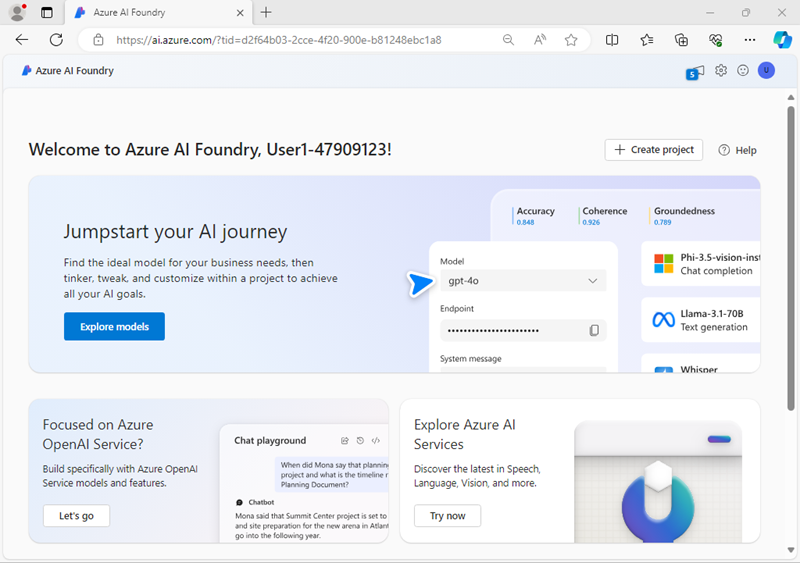
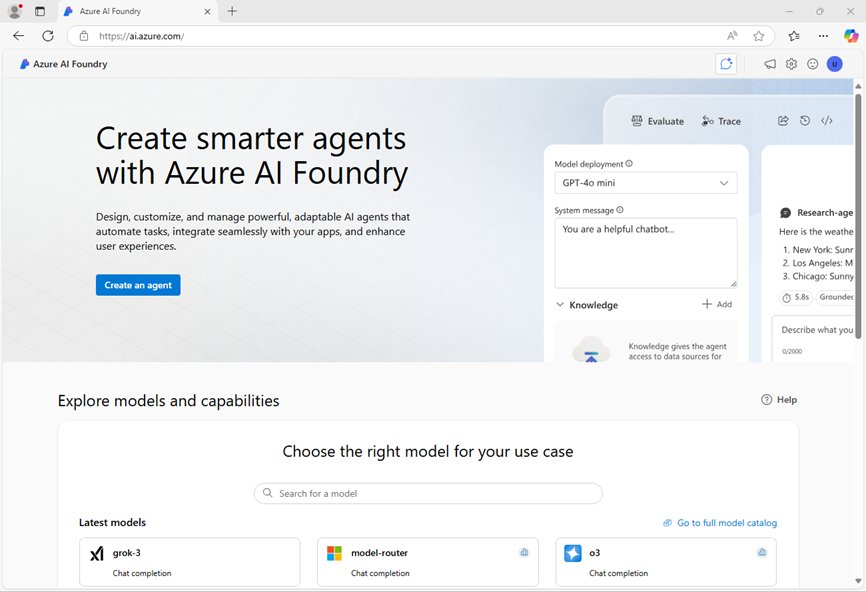
lab 1 and 2 updates (#24)
* Update 02-build-ai-agent.md

Updated nav steps

* Add files via upload

* Update agent.py

* Update .env

* Update .env

* Update agent.py

* update lab1 to new UI

* Update 02-build-ai-agent.md

* minor change

* update to agentclient

* project ui update

* Update 01-agent-fundamentals.md

---------

diff --git a/Labfiles/02-build-ai-agent/Python/agent.py b/Labfiles/02-build-ai-agent/Python/agent.py
@@ -14,8 +14,8 @@ def main():
 
     # Load environment variables from .env file
     load_dotenv()
-    PROJECT_CONNECTION_STRING= os.getenv("AZURE_AI_AGENT_PROJECT_CONNECTION_STRING")
-    MODEL_DEPLOYMENT = os.getenv("AZURE_AI_AGENT_MODEL_DEPLOYMENT_NAME")
+    project_endpoint= os.getenv("PROJECT_ENDPOINT")
+    model_deployment = os.getenv("MODEL_DEPLOYMENT_NAME")
 
     # Display the data to be analyzed
     script_dir = Path(__file__).parent  # Get the directory of the script
@@ -25,7 +25,7 @@ def main():
         data = file.read() + "\n"
         print(data)
 
-    # Connect to the Azure AI Foundry project
+    # Connect to the Agent client
 
 
         # Upload the data file and create a CodeInterpreterTool

diff --git a/Instructions/02-build-ai-agent.md b/Instructions/02-build-ai-agent.md
@@ -20,47 +20,30 @@ Let's start by creating an Azure AI Foundry project.
 
     ![Screenshot of Azure AI Foundry portal.](./Media/ai-foundry-home.png)
 
-1. In the home page, select **+ Create project**.
-1. In the **Create a project** wizard, enter a valid name for your project and if an existing hub is suggested, choose the option to create a new one. Then review the Azure resources that will be automatically created to support your hub and project.
-1. Select **Customize** and specify the following settings for your hub:
-    - **Hub name**: *A valid name for your hub*
+1. In the home page, select **Create an agent**.
+1. When prompted to create a project, enter a valid name for your project and expand **Advanced options**.
+1. Confirm the following settings for your project:
+    - **Azure AI Foundry resource**: *A valid name for your Azure AI Foundry resource*
     - **Subscription**: *Your Azure subscription*
     - **Resource group**: *Create or select a resource group*
-    - **Location**: Select a region from the following:\*
-        - eastus
-        - eastus2
-        - swedencentral
-        - westus
-        - westus3
-    - **Connect Azure AI Services or Azure OpenAI**: *Create a new AI Services resource*
-    - **Connect Azure AI Search**: Skip connecting
+    - **Region**: *Select any **AI Services supported location***\*
 
-    > \* At the time of writing, these regions support the gpt-4o model for use in agents. Model availability is constrained by regional quotas. In the event of a quota limit being reached later in the exercise, there's a possibility you may need to create another project in a different region.
+    > \* Some Azure AI resources are constrained by regional model quotas. In the event of a quota limit being exceeded later in the exercise, there's a possibility you may need to create another resource in a different region.
 
-1. Select **Next** and review your configuration. Then select **Create** and wait for the process to complete.
-1. When your project is created, close any tips that are displayed and review the project page in Azure AI Foundry portal, which should look similar to the following image:
+1. Select **Create** and wait for your project to be created.
+1. When your project is created, the Agents playground will be opened automatically so you can select or deploy a model:
 
-    ![Screenshot of a Azure AI project details in Azure AI Foundry portal.](./Media/ai-foundry-project.png)
+    ![Screenshot of a Azure AI Foundry project Agents playground.](./Media/ai-foundry-agents-playground.png)
 
-## Deploy a generative AI model
+    >**Note**: A GPT-4o base model is automatically deployed when creating your Agent and project.
 
-Now you're ready to deploy a generative AI language model to support your agent.
+1. In the navigation pane on the left, select **Overview** to see the main page for your project; which looks like this:
 
-1. In the pane on the left for your project, in the **My assets** section, select the **Models + endpoints** page.
-1. In the **Models + endpoints** page, in the **Model deployments** tab, in the **+ Deploy model** menu, select **Deploy base model**.
-1. Search for the **gpt-4o** model in the list, and then select and confirm it.
-1. Deploy the model with the following settings by selecting **Customize** in the deployment details:
-    - **Deployment name**: *A valid name for your model deployment*
-    - **Deployment type**: Global Standard
-    - **Automatic version update**: Enabled
-    - **Model version**: *Select the most recent available version*
-    - **Connected AI resource**: *Select your Azure OpenAI resource connection*
-    - **Tokens per Minute Rate Limit (thousands)**: 50K *(or the maximum available in your subscription if less than 50K)*
-    - **Content filter**: DefaultV2
+    > **Note**: If an *Insufficient permissions** error is displayed, use the **Fix me** button to resolve it.
 
-    > **Note**: Reducing the TPM helps avoid over-using the quota available in the subscription you are using. 50,000 TPM should be sufficient for the data used in this exercise. If your available quota is lower than this, you will be able to complete the exercise but you may need to wait and resubmit prompts if the rate limit is exceeded.
+    ![Screenshot of a Azure AI Foundry project overview page.](./Media/ai-foundry-project.png)
 
-1. Wait for the deployment to complete.
+1. Copy the **Azure AI Foundry project endpoint** values to a notepad, as you'll use them to connect to your project in a client application.
 
 ## Create an agent client app
 
@@ -107,7 +90,7 @@ Now you're ready to create a client app that uses an agent. Some code has been p
     ```
    python -m venv labenv
    ./labenv/bin/Activate.ps1
-   pip install python-dotenv azure-identity azure-ai-projects
+   pip install -r requirements.txt azure-ai-projects
     ```
 
 1. Enter the following command to edit the configuration file that has been provided:
@@ -118,8 +101,8 @@ Now you're ready to create a client app that uses an agent. Some code has been p
 
     The file is opened in a code editor.
 
-1. In the code file, replace the **your_project_connection_string** placeholder with the connection string for your project (copied from the project **Overview** page in the Azure AI Foundry portal), and the **your_model_deployment** placeholder with the name you assigned to your gpt-4o model deployment.
-1. After you've replaced the placeholders, use the **CTRL+S** command to save your changes and then use the **CTRL+Q** command to close the code editor while keeping the cloud shell command line open.
+1. In the code file, replace the **your_project_endpoint** placeholder with the endpoint for your project (copied from the project **Overview** page in the Azure AI Foundry portal).
+1. After you've replaced the placeholder, use the **CTRL+S** command to save your changes and then use the **CTRL+Q** command to close the code editor while keeping the cloud shell command line open.
 
 ### Write code for an agent app
 
@@ -137,32 +120,32 @@ Now you're ready to create a client app that uses an agent. Some code has been p
     ```python
    # Add references
    from azure.identity import DefaultAzureCredential
-   from azure.ai.projects import AIProjectClient
-   from azure.ai.projects.models import FilePurpose, CodeInterpreterTool
+   from azure.ai.agents import AgentsClient
+   from azure.ai.agents.models import FilePurpose, CodeInterpreterTool, ListSortOrder, MessageRole
     ```
 
-1. Find the comment **Connect to the Azure AI Foundry project** and add the following code to connect to the Azure AI project.
+1. Find the comment **Connect to the Agent client** and add the following code to connect to the Azure AI project.
 
     > **Tip**: Be careful to maintain the correct indentation level.
 
     ```python
-   # Connect to the Azure AI Foundry project
-   project_client = AIProjectClient.from_connection_string(
-        credential=DefaultAzureCredential
-            (exclude_environment_credential=True,
-             exclude_managed_identity_credential=True),
-        conn_str=PROJECT_CONNECTION_STRING
+   # Connect to the Agent client
+   agent_client = AgentsClient(
+       endpoint=project_endpoint,
+       credential=DefaultAzureCredential
+           (exclude_environment_credential=True,
+            exclude_managed_identity_credential=True)
    )
-   with project_client:
+   with agent_client:
     ```
 
-    The code connects to the Azure AI Foundry project using the current Azure credentials. The final *with project_client* statement starts a code block that defines the scope of the client, ensuring it's cleaned up when the code within the block is finished.
+    The code connects to the Azure AI Foundry project using the current Azure credentials. The final *with agent_client* statement starts a code block that defines the scope of the client, ensuring it's cleaned up when the code within the block is finished.
 
-1. Find the comment **Upload the data file and create a CodeInterpreterTool**, within the *with project_client* block, and add the following code to upload the data file to the project and create a CodeInterpreterTool that can access the data in it:
+1. Find the comment **Upload the data file and create a CodeInterpreterTool**, within the *with agent_client* block, and add the following code to upload the data file to the project and create a CodeInterpreterTool that can access the data in it:
 
     ```python
    # Upload the data file and create a CodeInterpreterTool
-   file = project_client.agents.upload_file_and_poll(
+   file = agent_client.files.upload_and_poll(
         file_path=file_path, purpose=FilePurpose.AGENTS
    )
    print(f"Uploaded {file.filename}")
@@ -174,8 +157,8 @@ Now you're ready to create a client app that uses an agent. Some code has been p
 
     ```python
    # Define an agent that uses the CodeInterpreterTool
-   agent = project_client.agents.create_agent(
-        model=MODEL_DEPLOYMENT,
+   agent = agent_client.create_agent(
+        model=model_deployment,
         name="data-agent",
         instructions="You are an AI agent that analyzes the data in the file that has been uploaded. If the user requests a chart, create it and save it as a .png file.",
         tools=code_interpreter.definitions,
@@ -188,7 +171,7 @@ Now you're ready to create a client app that uses an agent. Some code has been p
 
     ```python
    # Create a thread for the conversation
-   thread = project_client.agents.create_thread()
+   thread = agent_client.threads.create()
     ```
     
 1. Note that the next section of code sets up a loop for a user to enter a prompt, ending when the user enters "quit".
@@ -197,18 +180,14 @@ Now you're ready to create a client app that uses an agent. Some code has been p
 
     ```python
    # Send a prompt to the agent
-   message = project_client.agents.create_message(
+   message = agent_client.messages.create(
         thread_id=thread.id,
         role="user",
         content=user_prompt,
     )
 
-    run = project_client.agents.create_and_process_run(thread_id=thread.id, agent_id=agent.id)
-     ```
-
-1. Find the comment **Check the run status for failures** and add the following code to show any errors that occur.
-
-    ```python
+   run = agent_client.runs.create_and_process(thread_id=thread.id, agent_id=agent.id)
+     
    # Check the run status for failures
    if run.status == "failed":
         print(f"Run failed: {run.last_error}")
@@ -218,10 +197,12 @@ Now you're ready to create a client app that uses an agent. Some code has been p
 
     ```python
    # Show the latest response from the agent
-   messages = project_client.agents.list_messages(thread_id=thread.id)
-   last_msg = messages.get_last_text_message_by_role("assistant")
+   last_msg = agent_client.messages.get_last_message_text_by_role(
+       thread_id=thread.id,
+       role=MessageRole.AGENT,
+   )
    if last_msg:
-        print(f"Last Message: {last_msg.text.value}")
+       print(f"Last Message: {last_msg.text.value}")
     ```
 
 1. Find the comment **Get the conversation history**, which is after the loop ends, and add the following code to print out the messages from the conversation thread; reversing the order to show them in chronological sequence
@@ -229,27 +210,31 @@ Now you're ready to create a client app that uses an agent. Some code has been p
     ```python
    # Get the conversation history
    print("\nConversation Log:\n")
-   messages = project_client.agents.list_messages(thread_id=thread.id)
-   for message_data in reversed(messages.data):
-        last_message_content = message_data.content[-1]
-        print(f"{message_data.role}: {last_message_content.text.value}\n")
+   messages = agent_client.messages.list(thread_id=thread.id, order=ListSortOrder.ASCENDING)
+   for message in messages:
+       if message.text_messages:
+           last_msg = message.text_messages[-1]
+           print(f"{message.role}: {last_msg.text.value}\n")
     ```
 
-1. Find the comment **Get any generated files** and add the following code to get any file path annotations from the messages (which indicate that the agent saved a file in its internal storage) and copy the files to the app folder.
+1. Find the comment **Get any generated files** and add the following code to get any file path annotations from the messages (which indicate that the agent saved a file in its internal storage) and copy the files to the app folder. _NOTE_: Currently the image contents are not available by the system.
 
     ```python
    # Get any generated files
-   for file_path_annotation in messages.file_path_annotations:
-        project_client.agents.save_file(file_id=file_path_annotation.file_path.file_id, file_name=Path(file_path_annotation.text).name)
-        print(f"File saved as {Path(file_path_annotation.text).name}")
+   for msg in messages:
+       # Save every image file in the message
+       for img in msg.image_contents:
+           file_id = img.image_file.file_id
+           file_name = f"{file_id}_image_file.png"
+           agent_client.files.save(file_id=file_id, file_name=file_name)
+           print(f"Saved image file to: {Path.cwd() / file_name}")
     ```
 
 1. Find the comment **Clean up** and add the following code to delete the agent and thread when no longer needed.
 
     ```python
    # Clean up
-   project_client.agents.delete_agent(agent.id)
-   project_client.agents.delete_thread(thread.id)
+   agent_client.delete_agent(agent.id)
     ```
 
 1. Review the code, using the comments to understand how it:

diff --git a/Instructions/01-agent-fundamentals.md b/Instructions/01-agent-fundamentals.md
@@ -12,7 +12,7 @@ This exercise takes approximately **30** minutes.
 
 > **Note**: Some of the technologies used in this exercise are in preview or in active development. You may experience some unexpected behavior, warnings, or errors.
 
-## Create an Azure AI Foundry project
+## Create an Azure AI Foundry project and agent
 
 Let's start by creating an Azure AI Foundry project.
 
@@ -20,59 +20,32 @@ Let's start by creating an Azure AI Foundry project.
 
     ![Screenshot of Azure AI Foundry portal.](./Media/ai-foundry-home.png)
 
-1. In the home page, select **+ Create project**.
-1. In the **Create a project** wizard, enter a valid name for your project and if an existing hub is suggested, choose the option to create a new one. Then review the Azure resources that will be automatically created to support your hub and project.
-1. Select **Customize** and specify the following settings for your hub:
-    - **Hub name**: *A valid name for your hub*
+1. In the home page, select **Create an agent**.
+1. When prompted to create a project, enter a valid name for your project.
+1. Expand **Advanced options** and specify the following settings:
+    - **Azure AI Foundry resource**: *A valid name for your Azure AI Foundry resource*
     - **Subscription**: *Your Azure subscription*
-    - **Resource group**: *Create or select a resource group*
-    - **Location**: Select a region from the following:\*
-        - eastus
-        - eastus2
-        - swedencentral
-        - westus
-        - westus3
-    - **Connect Azure AI Services or Azure OpenAI**: *Create a new AI Services resource*
-    - **Connect Azure AI Search**: Skip connecting
+    - **Resource group**: *Select your resource group, or create a new one*
+    - **Region**: *Select any **AI Services supported location***\*
 
-    > \* At the time of writing, these regions support the gpt-4o model for use in agents. Model availability is constrained by regional quotas. In the event of a quota limit being reached later in the exercise, there's a possibility you may need to create another project in a different region.
+    > \* Some Azure AI resources are constrained by regional model quotas. In the event of a quota limit being exceeded later in the exercise, there's a possibility you may need to create another resource in a different region.
 
-1. Select **Next** and review your configuration. Then select **Create** and wait for the process to complete.
-1. When your project is created, close any tips that are displayed and review the project page in Azure AI Foundry portal, which should look similar to the following image:
+1. Select **Create** and wait for your project to be created.
+1. When your project is created, the Agents playground will be opened automatically so you can select or deploy a model:
 
-    ![Screenshot of a Azure AI project details in Azure AI Foundry portal.](./Media/ai-foundry-project.png)
+    ![Screenshot of a Azure AI Foundry project Agents playground.](./Media/ai-foundry-agents-playground.png)
 
-## Deploy a generative AI model
+    >**Note**: A GPT-4o base model is automatically deployed when creating your Agent and project.
 
-Now you're ready to deploy a generative AI language model to support your agent.
+You'll see that an agent with a default name has been created for you, along with your base model deployment.
 
-1. In the pane on the left for your project, in the **My assets** section, select the **Models + endpoints** page.
-1. In the **Models + endpoints** page, in the **Model deployments** tab, in the **+ Deploy model** menu, select **Deploy base model**.
-1. Search for the **gpt-4o** model in the list, and then select and confirm it.
-1. Deploy the model with the following settings by selecting **Customize** in the deployment details:
-    - **Deployment name**: *A valid name for your model deployment*
-    - **Deployment type**: Global Standard
-    - **Automatic version update**: Enabled
-    - **Model version**: *Select the most recent available version*
-    - **Connected AI resource**: *Select your Azure OpenAI resource connection*
-    - **Tokens per Minute Rate Limit (thousands)**: 50K *(or the maximum available in your subscription if less than 50K)*
-    - **Content filter**: DefaultV2
-
-    > **Note**: Reducing the TPM helps avoid over-using the quota available in the subscription you are using. 50,000 TPM should be sufficient for the data used in this exercise. If your available quota is lower than this, you will be able to complete the exercise but you may need to wait and resubmit prompts if the rate limit is exceeded.
-
-1. Wait for the deployment to complete.
-
-## Create an AI agent
+## Create your agent
 
 Now that you have a model deployed, you're ready to build an AI agent. In this exercise, you'll build a simple agent that answers questions based on a corporate expenses policy. You'll download the expenses policy document, and use it as *grounding* data for the agent.
 
 1. Open another browser tab, and download [Expenses_policy.docx](https://raw.githubusercontent.com/MicrosoftLearning/mslearn-ai-agents/main/Labfiles/01-agent-fundamentals/Expenses_Policy.docx) from `https://raw.githubusercontent.com/MicrosoftLearning/mslearn-ai-agents/main/Labfiles/01-agent-fundamentals/Expenses_Policy.docx` and save it locally. This document contains details of the expenses policy for the fictional Contoso corporation.
-1. Return to the browser tab containing the Azure AI Foundry portal, and in the navigation pane on the left, in the **Build and customize** section, select the **Agents** page.
-1. If prompted, select your Azure OpenAI service resource and go.
-
-    A new agent with a name like *Agent123* should be created automatically (if not, use the **+ New agent** button to create one).
-
-1. Select your new agent. Then, in the **Setup** pane for your new agent, set the **Agent name** to `ExpensesAgent`, ensure that the gpt-4o model deployment you created previously is selected, and set the **Instructions** to:
+1. Return to the browser tab containing the Foundry Agents playground, and find the **Setup** pane (it may be to the side or below the chat window).
+1. Set the **Agent name** to `ExpensesAgent`, ensure that the gpt-4o model deployment you created previously is selected, and set the **Instructions** to:
 
     ```prompt
    You are an AI assistant for corporate expenses.
@@ -84,23 +57,18 @@ Now that you have a model deployed, you're ready to build an AI agent. In this e
 
 1. Further down in the **Setup** pane, next to the **Knowledge** header, select **+ Add**. Then in the **Add knowledge** dialog box, select **Files**.
 1. In the **Adding files** dialog box, create a new vector store named `Expenses_Vector_Store`, uploading and saving the **Expenses_policy.docx** local file that you downloaded previously.
-
-    ![Screenshot of the Adding files dialog box in Azure AI Foundry portal.](./Media/ai-agent-add-files.png)
-
 1. In the **Setup** pane, in the **Knowledge** section, verify that **Expenses_Vector_Store** is listed and shown as containing 1 file.
-
 1. Below the **Knowledge** section, next to **Actions**, select **+ Add**. Then in the **Add action** dialog box, select **Code interpreter** and then select **Save** (you do not need to upload any files for the code interpreter).
 
     Your agent will use the document you uploaded as its knowledge source to *ground* its responses (in other words, it will answer questions based on the contents of this document). It will use the code interpreter tool as required to perform actions by generating and running its own Python code.
 
 ## Test your agent
 
-Now that you've created an agent, you can test it in the Azure AI Foundry portal playground.
+Now that you've created an agent, you can test it in the playground chat.
 
-1. At the top of the **Setup** pane for your agent, select **Try in playground**.
-1. In the playground, enter the prompt: `What's the maximum I can claim for meals?` and review the agent's response - which should be based on information in the expenses policy document you added as knowledge to the agent setup.
+1. In the playground chat entry, enter the prompt: `What's the maximum I can claim for meals?` and review the agent's response - which should be based on information in the expenses policy document you added as knowledge to the agent setup.
 
-    > **Note**: If the agent fails to respond because the rate limit is exceeded. Wait a few seconds and try again. If there is insufficient quota available in your subscription, the model may not be able to respond.
+    > **Note**: If the agent fails to respond because the rate limit is exceeded. Wait a few seconds and try again. If there is insufficient quota available in your subscription, the model may not be able to respond. If the problem persists, try to increase the quota for your model on the **Models + endpoints** page.
 
 1. Try the following follow-up prompt: `I'd like to submit a claim for a meal.` and review the response. The agent should ask you for the required information to submit a claim.
 1. Provide the agent with an email address; for example, `fred@contoso.com`. The agent should acknowledge the response and request the remaining information required for the expense claim (description and amount)
